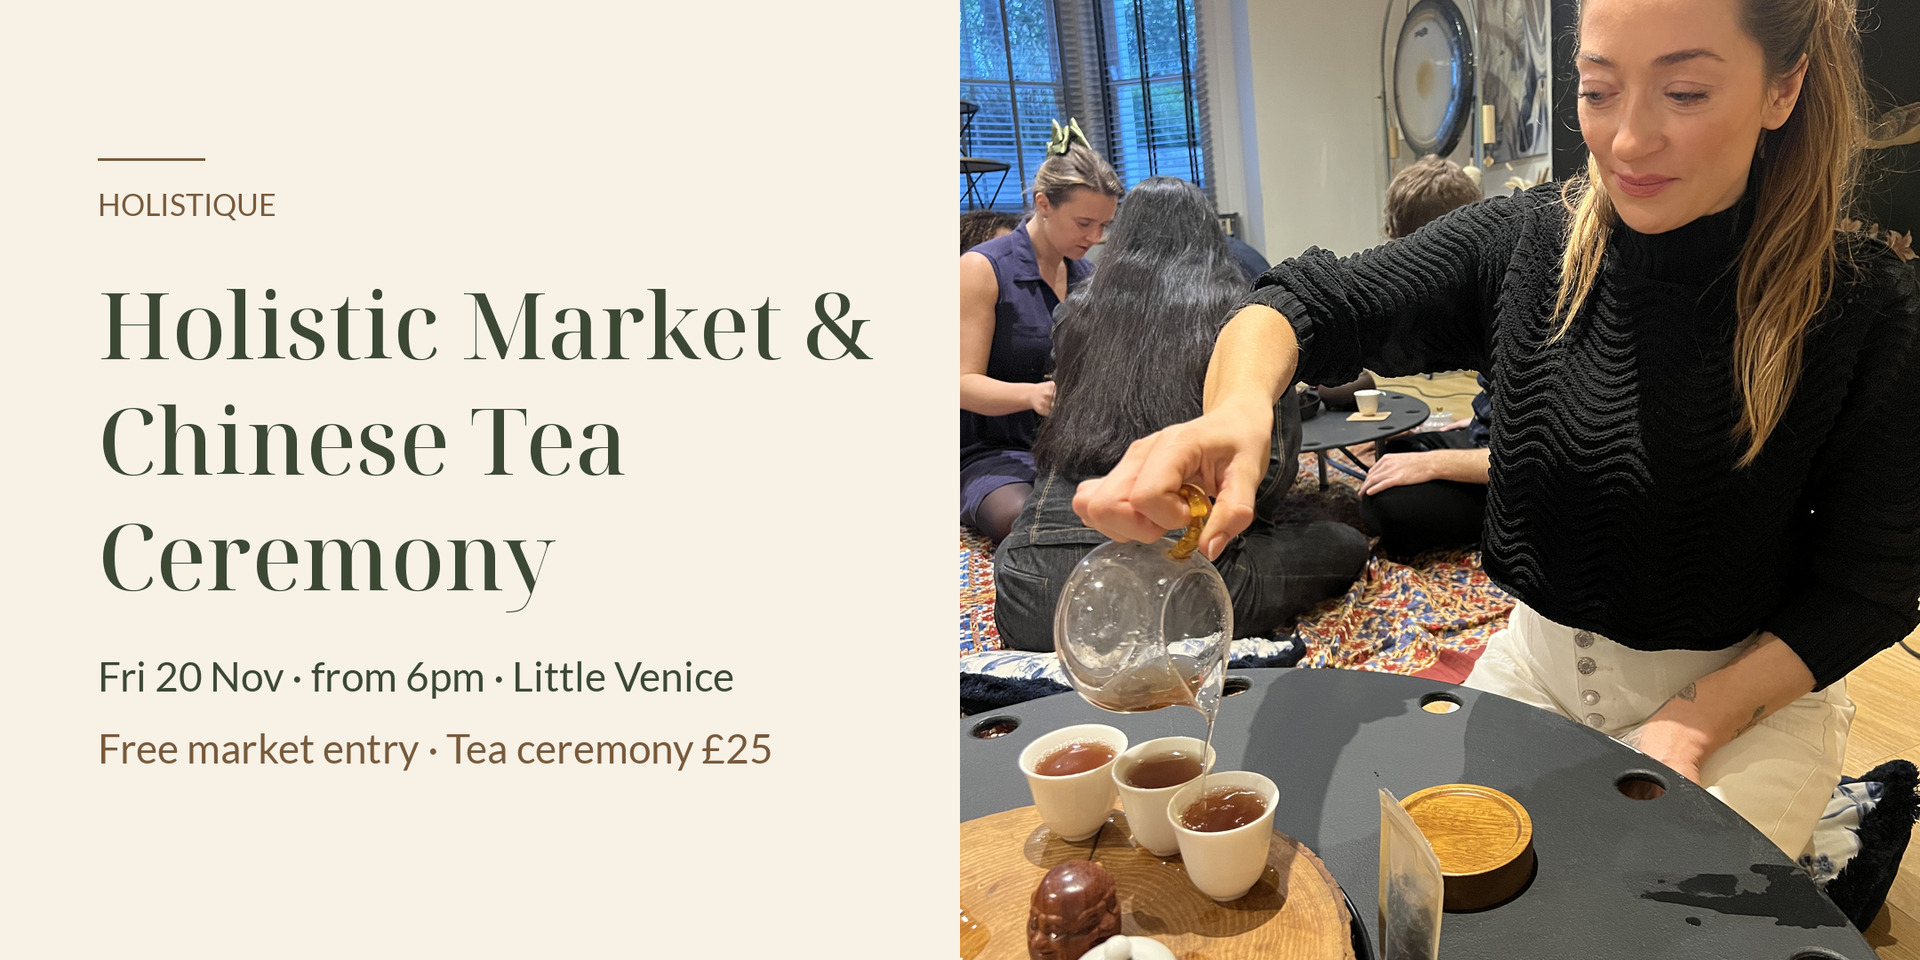
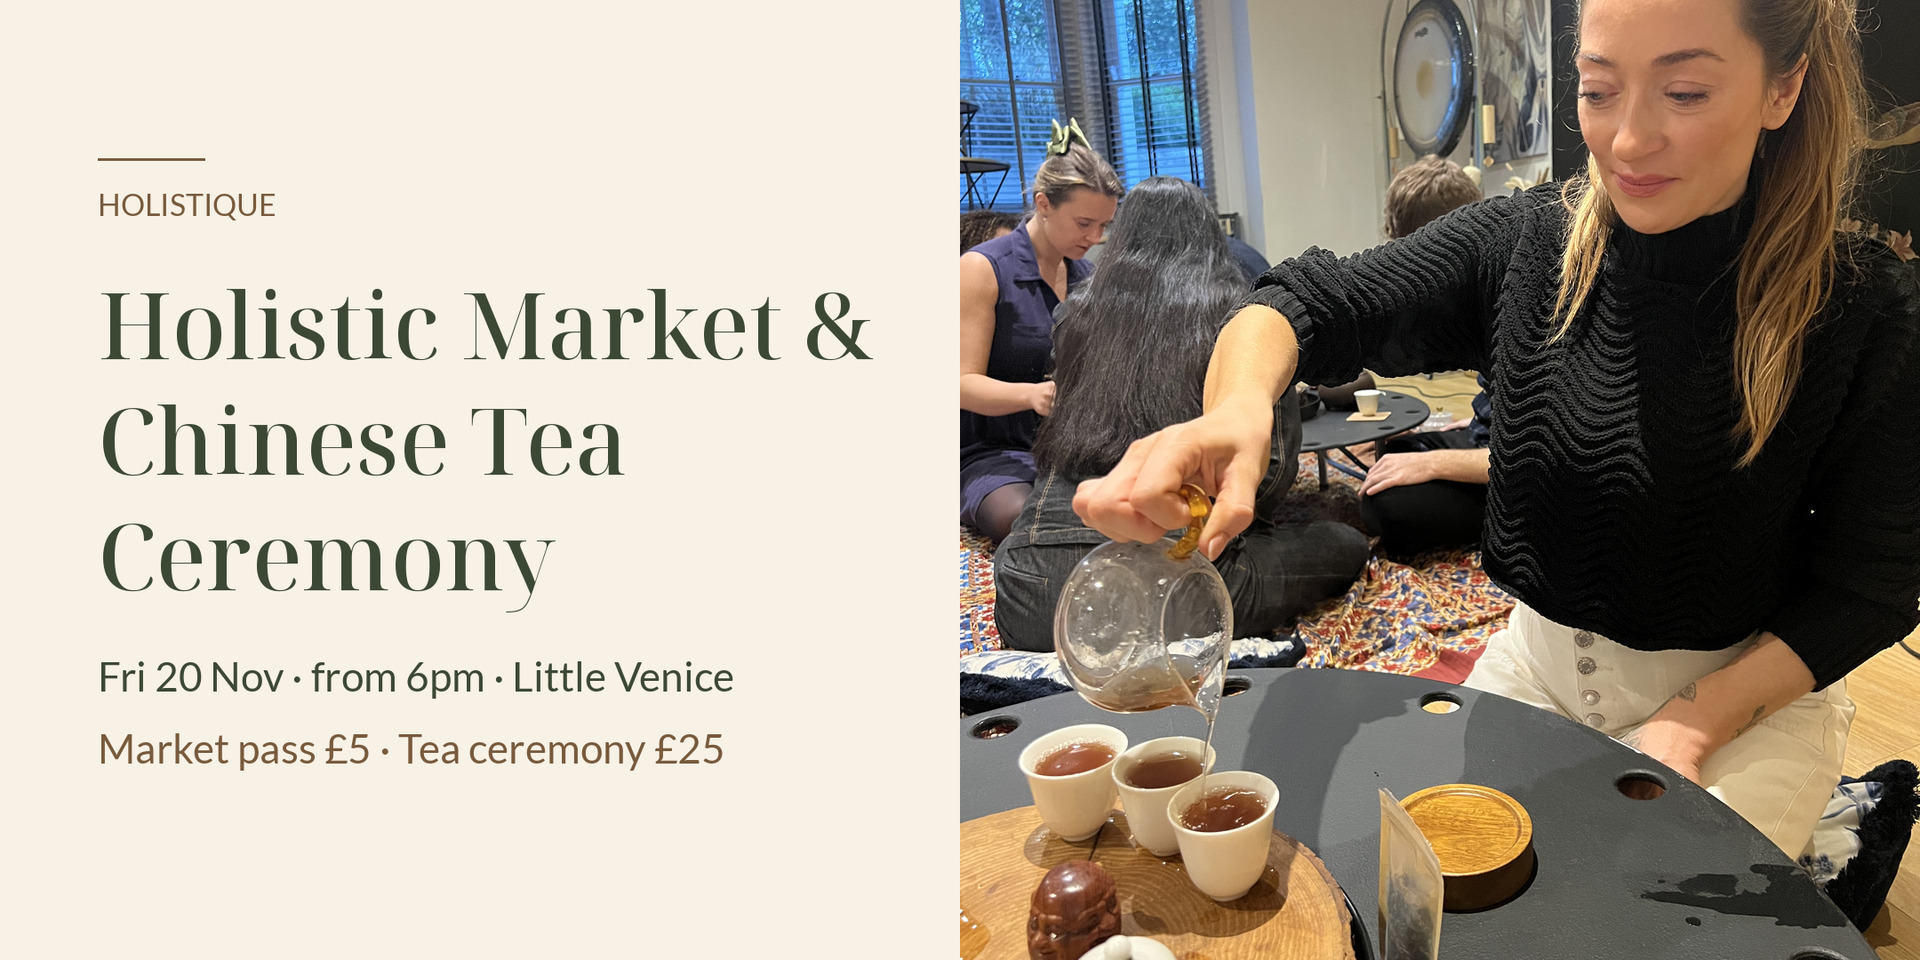
sync: update Eventbrite events (automated)

Changed region(s): [[0.0625, 0.75, 0.4062, 0.8125]]

diff --git a/events.html b/events.html
@@ -479,7 +479,7 @@
             "@context": "https://schema.org",
             "@type": "Event",
             "name": "Holistic Market & Chinese Tea Ceremony – Little Venice",
-            "description": "🌿 Holistic Market & Chinese Tea Ceremony 🌿 Join us from 6pm for a calm evening in Little Venice. The tea ceremony space becomes a holistic market, with holistic vendors, astrology readings and more, and possibly some massage. Pre-book your place at a guided Chinese tea ceremony, or just come and...",
+            "description": "🌿 Holistic Market & Chinese Tea Ceremony 🌿 Join us from 6pm for a calm evening in Little Venice. The tea ceremony space becomes a holistic market, with holistic vendors, astrology readings and more, and possibly some massage. Pre-book your place at a guided Chinese tea ceremony, or grab a £5...",
             "startDate": "2026-11-20T18:00:00+00:00",
             "endDate": "2026-11-20T21:00:00+00:00",
             "eventStatus": "https://schema.org/EventScheduled",
